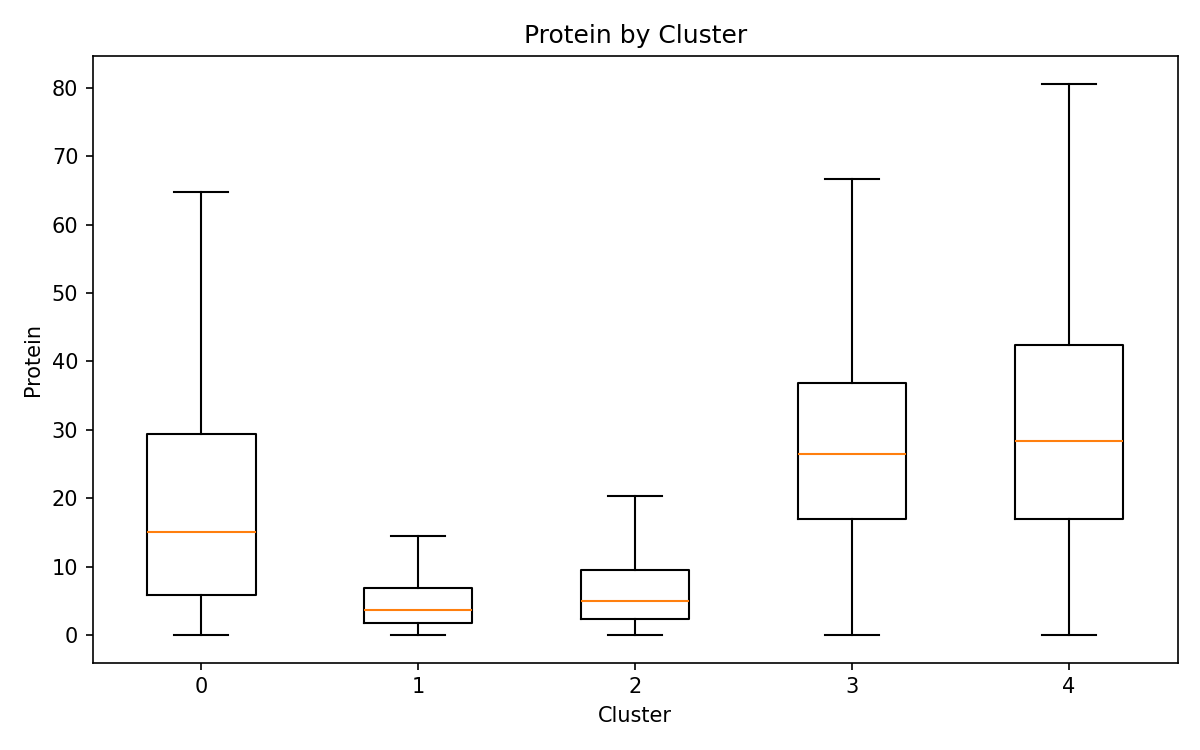
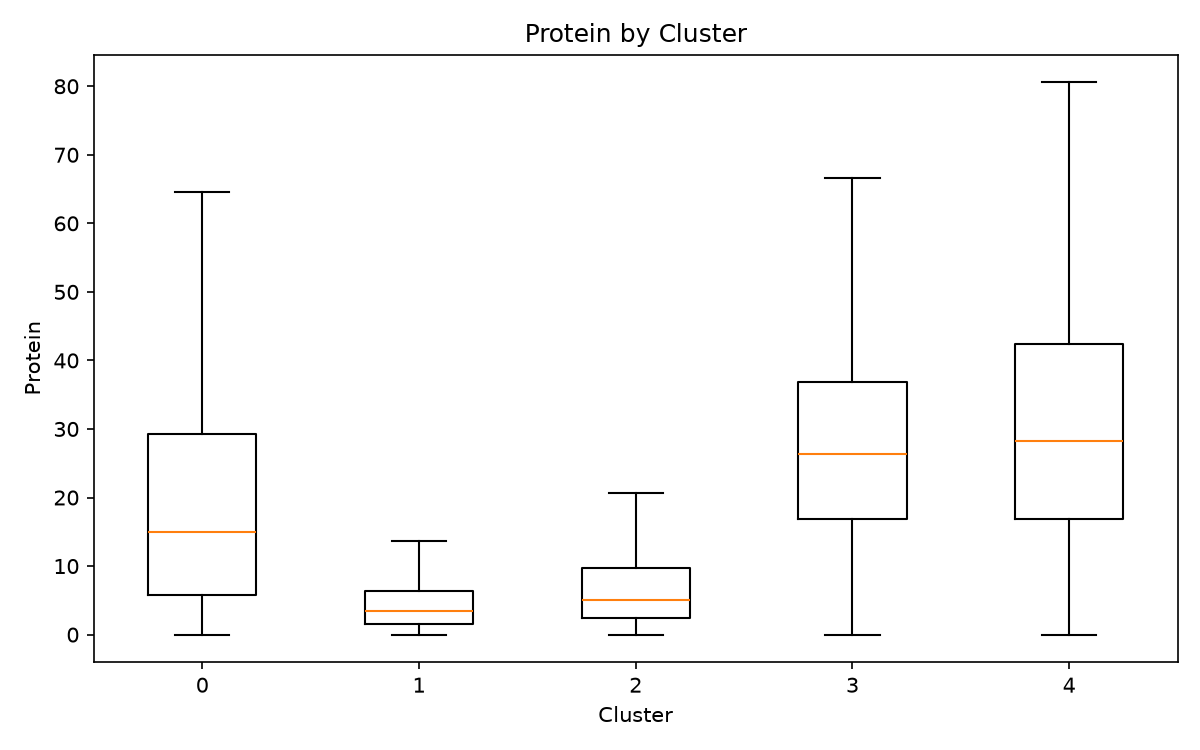
fix: fix error regarding labels using matplotlib

diff --git a/src/features/profile_clusters.py b/src/features/profile_clusters.py
@@ -662,7 +662,9 @@ def plot_metric_by_cluster(
         labels = [str(cluster) for cluster in sorted(plot_df["cluster"].unique().tolist())]
         # Outlier-robust display only: raw data are unchanged, but extreme fliers
         # are hidden to keep interquartile structure readable across clusters.
-        plt.boxplot(groups, labels=labels, showfliers=False)
+        # plt.boxplot(groups, labels=labels, showfliers=False)
+        plt.boxplot(groups, showfliers=False)
+        plt.xticks(range(1, len(labels) + 1), labels)
         plt.xlabel("Cluster")
         plt.ylabel(y_label)
     plt.title(title)
